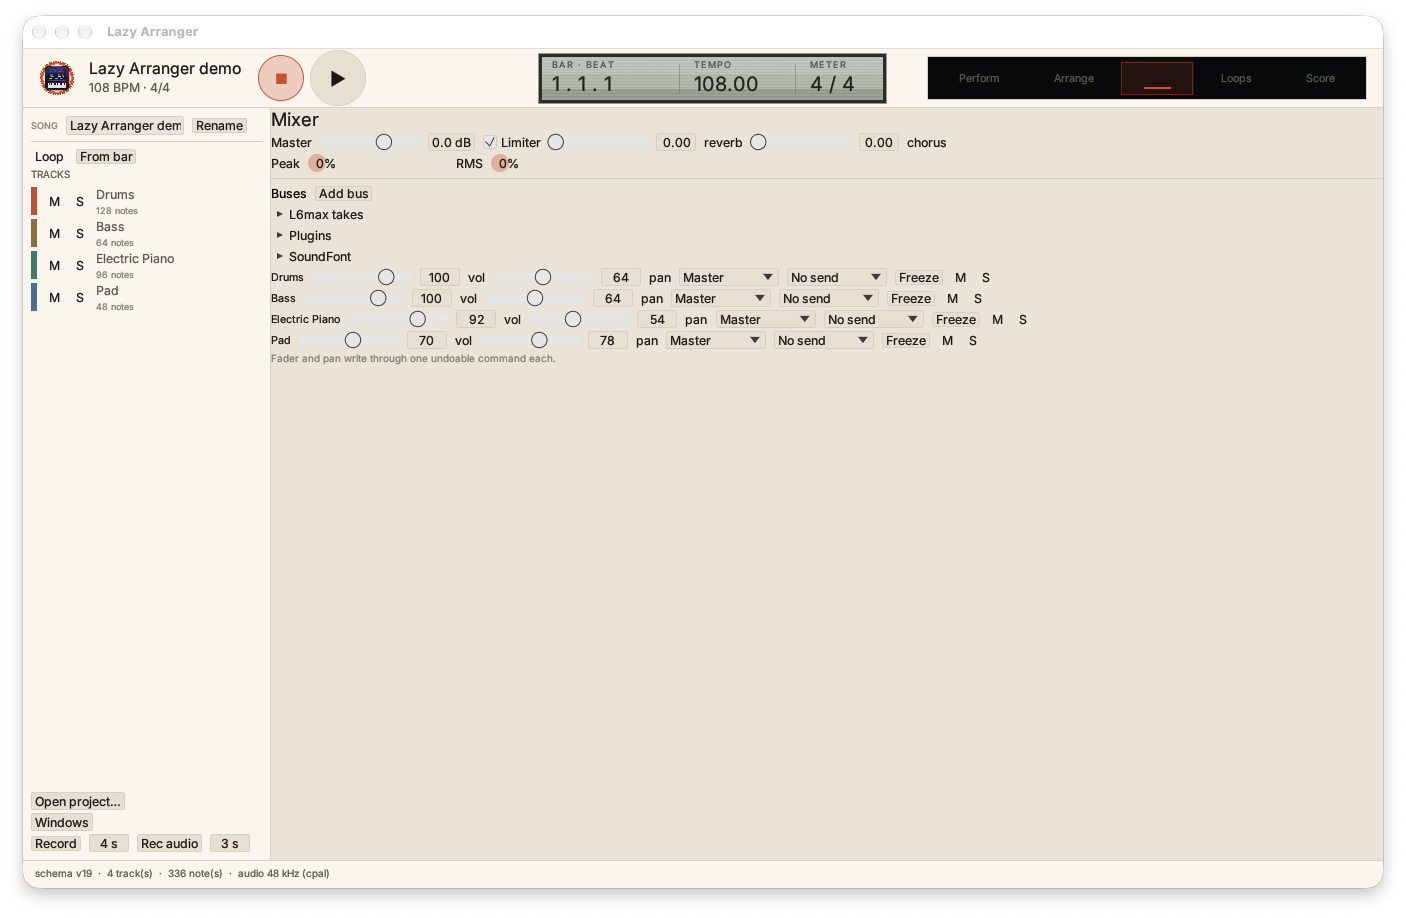
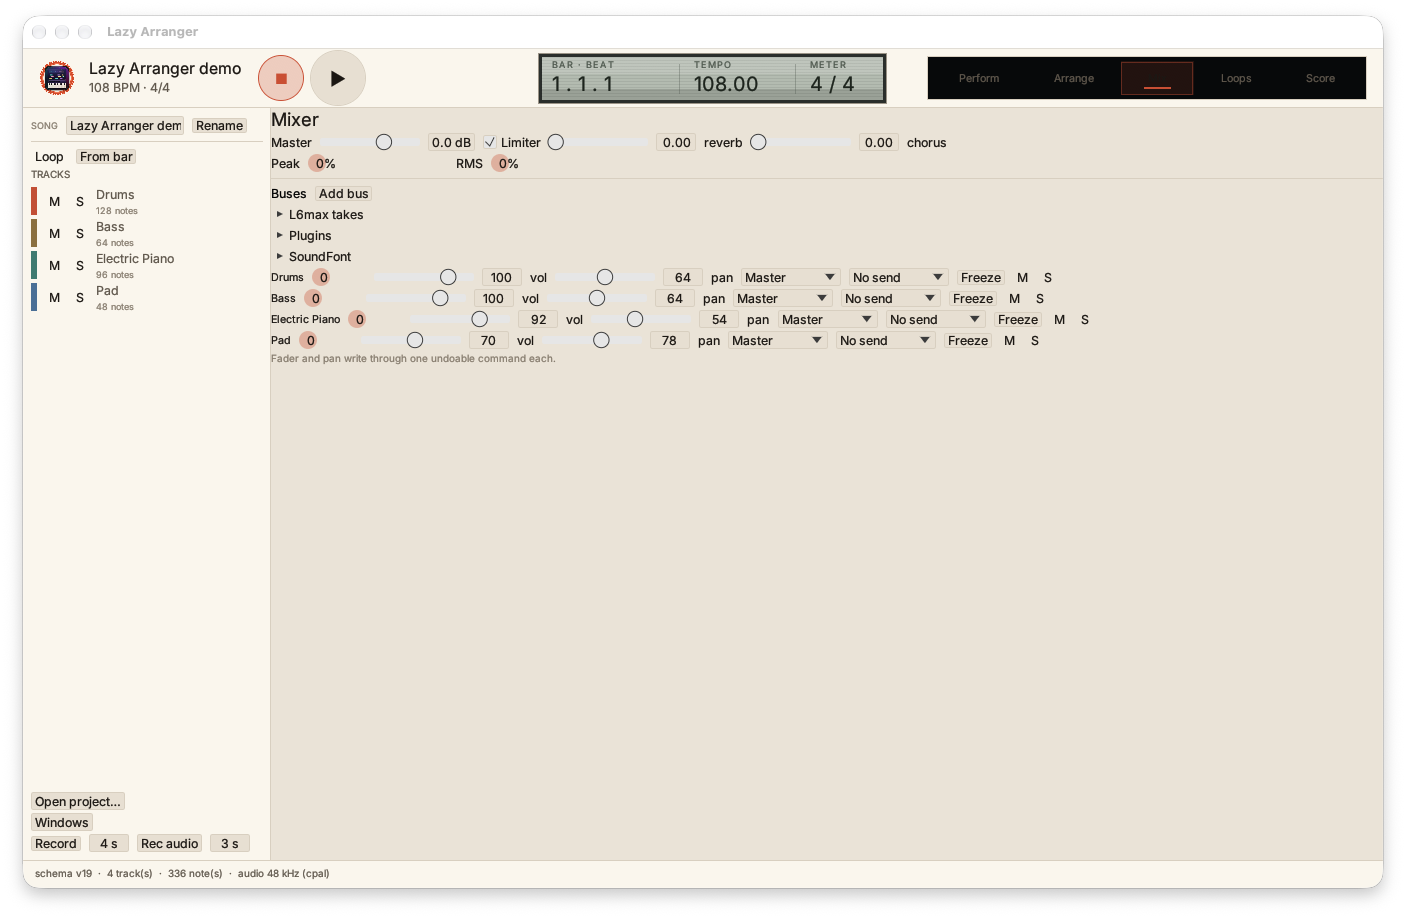
feat(mixer): per-track peak meters
Uses meter_at over offline stems at the playhead, renders stems on playback when
Mix is active or when entering Mix while playing, and shows a peak badge per
track. Adds a window-meter test and refreshes the Mix capture.

653 tests pass; clippy, fmt and rustdoc clean; the shell ran 6 s without a
panic.

diff --git a/apps/desktop/src/app.rs b/apps/desktop/src/app.rs
@@ -303,6 +303,7 @@ pub struct ShellApp {
     print_copies: u32,
     print_pages: String,
     monitor: Option<audio::monitor::Monitor>,
+    stem_levels: Vec<(TrackId, Vec<f32>)>,
     marker_text: String,
     marker_selected: Option<Tick>,
     form_dialog: bool,
@@ -467,6 +468,7 @@ impl ShellApp {
             print_copies: 1,
             print_pages: String::new(),
             monitor: None,
+            stem_levels: Vec::new(),
             marker_text: String::new(),
             marker_selected: None,
             form_dialog: false,
@@ -1787,6 +1789,7 @@ impl ShellApp {
                 self.selected_clip = None;
                 self.selected_clips.clear();
                 self.selected_chord = None;
+                self.stem_levels.clear();
                 self.position = 0;
                 self.song_name_input = self.song().name.clone();
                 self.status = Some(format!("loaded {label}"));
@@ -2872,6 +2875,17 @@ impl ShellApp {
     /// Mixer strips: one per track with a fader, pan and mute/solo.
     fn mixer_panel(&mut self, ui: &mut egui::Ui) {
         ui.heading("Mixer");
+        if self.stem_levels.is_empty()
+            && self
+                .player
+                .as_ref()
+                .is_some_and(audio::player::Player::is_playing)
+        {
+            self.stem_levels = audio::render_stems(self.song(), audio::SAMPLE_RATE)
+                .into_iter()
+                .map(|stem| (stem.track, stem.audio.samples))
+                .collect();
+        }
         ui.horizontal(|ui| {
             ui.label("Master");
             ui.add(
@@ -3253,10 +3267,30 @@ impl ShellApp {
             });
         }
         for (id, name, volume, pan, muted, soloed) in strips {
+            let meter = if self
+                .player
+                .as_ref()
+                .is_some_and(audio::player::Player::is_playing)
+            {
+                let position = self.player.as_ref().map_or(0, |player| player.frame() * 2);
+                self.stem_levels
+                    .iter()
+                    .find(|(track, _)| *track == id)
+                    .map_or_else(audio::master::Meter::default, |(_, samples)| {
+                        audio::master::meter_at(samples, position, audio::SAMPLE_RATE as usize / 20)
+                    })
+            } else {
+                audio::master::Meter::default()
+            };
             ui.horizontal(|ui| {
                 ui.label(
                     egui::RichText::new(if name.is_empty() { "untitled" } else { &name })
                         .size(11.0),
+                );
+                ui.add(
+                    egui::ProgressBar::new(meter.peak.clamp(0.0, 1.0))
+                        .desired_width(54.0)
+                        .text(format!("{:.0}", meter.peak * 100.0)),
                 );
                 let mut level = i32::from(volume);
                 let response = ui.add(
@@ -3951,6 +3985,7 @@ impl ShellApp {
             match audio::player::Player::new(sliced) {
                 Ok(player) => {
                     self.position = start;
+                    self.stem_levels.clear();
                     self.player = Some(player);
                     self.playing = true;
                     if let Some(player) = &self.player {
@@ -3964,9 +3999,18 @@ impl ShellApp {
                 }
             }
         }
+        let stems = if self.view == View::Mix {
+            audio::render_stems(self.song(), audio::SAMPLE_RATE)
+                .into_iter()
+                .map(|stem| (stem.track, stem.audio.samples))
+                .collect()
+        } else {
+            Vec::new()
+        };
         match audio::player::Player::new(audio) {
             Ok(player) => {
                 player.play();
+                self.stem_levels = stems;
                 self.player = Some(player);
                 self.playing = true;
             }

diff --git a/crates/audio/src/master.rs b/crates/audio/src/master.rs
@@ -143,6 +143,29 @@ fn reverb(rendered: &mut RenderedAudio, amount: f32) {
     }
 }
 
+/// Measures a stereo window at `start` sample, for live meters.
+#[must_use]
+pub fn meter_at(samples: &[f32], start: usize, frames: usize) -> Meter {
+    let start = start.min(samples.len());
+    let length = frames
+        .saturating_mul(2)
+        .min(samples.len().saturating_sub(start));
+    if length == 0 {
+        return Meter::default();
+    }
+    let window = &samples[start..start + length];
+    let peak = window
+        .iter()
+        .fold(0.0_f32, |peak, sample| peak.max(sample.abs()));
+    let rms = (window
+        .iter()
+        .map(|sample| f64::from(*sample) * f64::from(*sample))
+        .sum::<f64>()
+        / length as f64)
+        .sqrt() as f32;
+    Meter { peak, rms }
+}
+
 /// Measures a buffer.
 #[must_use]
 pub fn meter(rendered: &RenderedAudio) -> Meter {
@@ -242,6 +265,14 @@ mod tests {
                 .zip(dry.samples.iter())
                 .any(|(left, right)| (left - right).abs() > 1.0e-6)
         );
+    }
+
+    #[test]
+    fn a_window_meter_reports_only_its_slice() {
+        let samples = [0.5, -0.5, 1.0, -1.0, 0.0, 0.0];
+        let meter = meter_at(&samples, 2, 1);
+        assert!((meter.peak - 1.0).abs() < 1.0e-6);
+        assert_eq!(meter_at(&samples, 6, 1), Meter::default());
     }
 
     #[test]

diff --git a/crates/audio/src/player.rs b/crates/audio/src/player.rs
@@ -9,7 +9,7 @@ use std::sync::{Arc, Mutex};
 use cpal::traits::{DeviceTrait, HostTrait, StreamTrait};
 
 use crate::RenderedAudio;
-use crate::master::Meter;
+use crate::master::{Meter, meter_at};
 
 /// Playback position and buffer, shared with the audio callback.
 #[derive(Debug)]
@@ -71,24 +71,7 @@ impl Playback {
     /// Peak/RMS over the next `frames` stereo frames, for a meter.
     #[must_use]
     pub fn meter(&self, frames: usize) -> Meter {
-        let start = self.position.min(self.samples.len());
-        let length = frames
-            .saturating_mul(2)
-            .min(self.samples.len().saturating_sub(start));
-        if length == 0 {
-            return Meter::default();
-        }
-        let window = &self.samples[start..start + length];
-        let peak = window
-            .iter()
-            .fold(0.0_f32, |peak, sample| peak.max(sample.abs()));
-        let rms = (window
-            .iter()
-            .map(|sample| f64::from(*sample) * f64::from(*sample))
-            .sum::<f64>()
-            / length as f64)
-            .sqrt() as f32;
-        Meter { peak, rms }
+        meter_at(&self.samples, self.position, frames)
     }
 
     /// True while samples are being produced.

diff --git a/docs/architecture/contracts.md b/docs/architecture/contracts.md
@@ -23,7 +23,7 @@ section below is a row, so nothing is skipped. Status: **verified**,
 | 14 | Styles | partial | Yamaha open, import, compile on chords, **save container (SFF1/SFF2, real 15-section style rewritten)**. Track program changes now round-trip through the SMF reader/writer and the style writer; Korg, live sections, rules editor UI, style-from-clips, bank select, XG voices and the SInt setup region remain absent. Catalog resolution by number or name (`style-resolve`) matched a real library entry; a PCG scanner now recognises the KORG marker and model name only, with no program or combi decoding |
 | 15 | Style from Audio and Link | partial | Link→monophonic MIDI; no style output, no match scores |
 | 16 | Score view | partial | MusicXML export/import with `<harmony>` chords, drum instrument ids, `<sound dynamics>`, slurs and a round-trip audit. On the demo tracks, chords (16), lyrics (2), marks (2), drums and the pitched detail are preserved (186 = 186 after merging 22 ties). A style-derived project with mixed drum/pitched tracks and overlapping notes now keeps all 1,423 pitched notes (counts and tie merges), but one chord-group note starts at a different tick inside an overlap; `<backup>` was added for overlaps, and MusicXML still cannot express every simultaneous overlap we hold, which is recorded as a limitation plus a toolkit-independent layout engine (pages, systems, measures, positioned notes, CLI report). An egui page canvas renders staff lines, barlines, noteheads, page navigation and zoom from the layout. Key detection, spelling, accidentals, canvas, vector PDF, per-pitch ties and a lyric line (40-bar two-page acceptance test). Dynamics and articulations are marks in schema v11, exchanged as MusicXML directions and drawn by both renderers. Note entry: with Note entry enabled, a click on the score inserts a note at a quarter-quantised tick and the staff pitch through one undoable command. A grand-staff toggle, beams, tuplet brackets, ties, rests in gaps/empty measures, augmentation dots (notes and rests) and articulation glyphs now draw on canvas and PDF; phrase slurs (schema v18) draw as curves, are exposed by `get_slurs`/`set_slurs` and round-trip as MusicXML `<slur>` notations; a drum track gets a one-line percussion staff with x noteheads on canvas and PDF; lyrics shift right when crowded; chord names are drawn above the staff on canvas and PDF, common major/minor/seventh chords get guitar frames (slash chords or unlisted qualities get none); the Score view has a path field, Save PDF and a Print dialog with printer, copies and page ranges via `lp`; chord names and guitar frames draw on canvas and PDF with a top reserve, the song title draws inside the page margin, one lyric per chord tick, PDF text uses the dark fill; four 4/4 measures fit a system and the song meter draws at each system start, measure numbers draw above the staff, `docs/audit/score-page.png` shows the balanced layout, and a headless test checks canvas text; and a headless egui test verifies the canvas title, chord name and measure number shapes; dense rhythms widen their measures and crowded accidentals shift left; Shift-drag resizes a note's duration (quarter-quantised); no vertical rest/dot collision avoidance; printing uses `lp`, not an OS print panel |
-| 17 | Mixer and buses | partial | Tracks carry fader, pan, mute/solo and automation; buses (schema v13) have volume and pan, tracks route to a bus and can send a copy at a level, and the render sums bus buffers after the tracks. Mix view shows bus rows with volume/pan/remove and an Add bus action plus a per-track routing picker (`docs/audit/mix.png`). Mix rows add a send-bus picker and send-level slider over the same routing command; Loops slots have a right-click menu for clear, one-bar length and copy to playhead. Master gain and a soft limiter apply to playback and `export-audio` (`--gain-db`, `--no-limiter`), and the export prints peak/RMS; master reverb and chorus wet amounts (feedback-delay reverb and modulated-delay chorus, applied after gain before the limiter) are settable in the Mixer and Settings and used by playback/`export-audio --reverb/--chorus`; master peak/RMS bars draw while playing (no per-track meters or other master effects) |
+| 17 | Mixer and buses | partial | Tracks carry fader, pan, mute/solo and automation; buses (schema v13) have volume and pan, tracks route to a bus and can send a copy at a level, and the render sums bus buffers after the tracks. Mix view shows bus rows with volume/pan/remove and an Add bus action plus a per-track routing picker (`docs/audit/mix.png`). Mix rows add a send-bus picker and send-level slider over the same routing command; Loops slots have a right-click menu for clear, one-bar length and copy to playhead. Master gain and a soft limiter apply to playback and `export-audio` (`--gain-db`, `--no-limiter`), and the export prints peak/RMS; master reverb and chorus wet amounts (feedback-delay reverb and modulated-delay chorus, applied after gain before the limiter) are settable in the Mixer and Settings and used by playback/`export-audio --reverb/--chorus`; master peak/RMS bars and per-track peak badges draw while playing (track levels come from offline stems; other master effects absent) |
 | 18 | Automation | partial | Volume and pan lanes with linear interpolation and held ends, applied per note in the render, edited through one undoable command. Arrange shows a volume lane for the selected track; clicking adds a point, clicking a point removes it, and each edit is one command. the automation target picker covers Volume, Pan, Send and Brightness; no plugin-parameter lanes or MIDI-port automation |
 | 19 | VST3/AU plugins | partial | Project model only: `Track.plugins` slots (id, name, format VST3/AU, path, bypass, opaque state) in schema v15, one undoable `SetPlugins` command and duplicate/no-name validation. A scanner finds installed VST3/AU bundles in the standard folders (21 found on this machine, e.g. R0Verb and sforzando) through `plugin-scan` and a `plugin_scan` tool; the Mixer's Plugins panel scans, adds a found bundle to the selected track's slots, and toggles bypass or removes slots. No plugin hosting, load validation, audio processing or editor windows; the render ignores slots |
 | 20 | SF2/SF3 SoundFont player, metronome | partial | Built-in synth now has piano, bass, organ, strings, pad and noise drums chosen from channel, program and name, with per-family attack and decay. An SF2 reader parses RIFF, preset/instrument zones and sample headers; `sf2-info` lists a real bank (137 presets, 239 instruments, 125 samples), `sf2-render` plays one note, and a track can carry a SoundFont preset (schema v16) that render honours in playback and export (`sf2-use`; demo track RMS 0.252 versus 0.116 built-in). The Mixer has a SoundFont panel (path, bank, program, use/load/clear) that validates the bank and applies one command. Sample playback applies the volume envelope (six phases from timecents/centibels), a biquad lowpass from the cutoff/Q generators and linked stereo pairs as two channels. No modulators or SF3; a missing file falls back to the built-in timbre; a metronome click mixes into playback and export |
@@ -50,7 +50,7 @@ section below is a row, so nothing is skipped. Status: **verified**,
 ## Scorecard
 
 39 sections at round 216: 0 fully verified beyond their Rust subset, 39 partial,
-0 missing; 652 tests pass. No section is missing at row level; partials need hardware,
+0 missing; 653 tests pass. No section is missing at row level; partials need hardware,
 proprietary formats, plugin hosting or a model. See
 `docs/audit/cpp-features-crosscheck.md` for row evidence.
 
@@ -1003,8 +1003,9 @@ reverb tail, chorus modulation and the zero-effect path.
 
 `Playback::meter(frames)` computes peak and RMS over a short window at the
 playhead; `Player::meter` samples about 50 ms. The Mixer draws master Peak/RMS
-bars only while playing. A playback unit test checks the window and the
-end-of-buffer zero case; per-track meters are not implemented.
+bars and per-track peak badges while playing; track levels use offline stems
+rendered when playback starts in Mix or Mix is entered while playing. A window
+meter unit test checks slices and the end-of-buffer zero case.
 
 ### Track programs in MIDI and styles
 

diff --git a/docs/audit/cpp-features-crosscheck.md b/docs/audit/cpp-features-crosscheck.md
@@ -23,7 +23,7 @@ section below is a row, so nothing is skipped. Status: **verified**,
 | 14 | Styles | partial | Yamaha open, import, compile on chords, **save container (SFF1/SFF2, real 15-section style rewritten)**. Track program changes now round-trip through the SMF reader/writer and the style writer; Korg, live sections, rules editor UI, style-from-clips, bank select, XG voices and the SInt setup region remain absent. Catalog resolution by number or name (`style-resolve`) matched a real library entry; a PCG scanner now recognises the KORG marker and model name only, with no program or combi decoding |
 | 15 | Style from Audio and Link | partial | Link→monophonic MIDI; no style output, no match scores |
 | 16 | Score view | partial | MusicXML export/import with `<harmony>` chords, drum instrument ids, `<sound dynamics>`, slurs and a round-trip audit. On the demo tracks, chords (16), lyrics (2), marks (2), drums and the pitched detail are preserved (186 = 186 after merging 22 ties). A style-derived project with mixed drum/pitched tracks and overlapping notes now keeps all 1,423 pitched notes (counts and tie merges), but one chord-group note starts at a different tick inside an overlap; `<backup>` was added for overlaps, and MusicXML still cannot express every simultaneous overlap we hold, which is recorded as a limitation plus a toolkit-independent layout engine (pages, systems, measures, positioned notes, CLI report). An egui page canvas renders staff lines, barlines, noteheads, page navigation and zoom from the layout. Key detection, spelling, accidentals, canvas, vector PDF, per-pitch ties and a lyric line (40-bar two-page acceptance test). Dynamics and articulations are marks in schema v11, exchanged as MusicXML directions and drawn by both renderers. Note entry: with Note entry enabled, a click on the score inserts a note at a quarter-quantised tick and the staff pitch through one undoable command. A grand-staff toggle, beams, tuplet brackets, ties, rests in gaps/empty measures, augmentation dots (notes and rests) and articulation glyphs now draw on canvas and PDF; phrase slurs (schema v18) draw as curves, are exposed by `get_slurs`/`set_slurs` and round-trip as MusicXML `<slur>` notations; a drum track gets a one-line percussion staff with x noteheads on canvas and PDF; lyrics shift right when crowded; chord names are drawn above the staff on canvas and PDF, common major/minor/seventh chords get guitar frames (slash chords or unlisted qualities get none); the Score view has a path field, Save PDF and a Print dialog with printer, copies and page ranges via `lp`; chord names and guitar frames draw on canvas and PDF with a top reserve, the song title draws inside the page margin, one lyric per chord tick, PDF text uses the dark fill; four 4/4 measures fit a system and the song meter draws at each system start, measure numbers draw above the staff, `docs/audit/score-page.png` shows the balanced layout, and a headless test checks canvas text; and a headless egui test verifies the canvas title, chord name and measure number shapes; dense rhythms widen their measures and crowded accidentals shift left; Shift-drag resizes a note's duration (quarter-quantised); no vertical rest/dot collision avoidance; printing uses `lp`, not an OS print panel |
-| 17 | Mixer and buses | partial | Tracks carry fader, pan, mute/solo and automation; buses (schema v13) have volume and pan, tracks route to a bus and can send a copy at a level, and the render sums bus buffers after the tracks. Mix view shows bus rows with volume/pan/remove and an Add bus action plus a per-track routing picker (`docs/audit/mix.png`). Mix rows add a send-bus picker and send-level slider over the same routing command; Loops slots have a right-click menu for clear, one-bar length and copy to playhead. Master gain and a soft limiter apply to playback and `export-audio` (`--gain-db`, `--no-limiter`), and the export prints peak/RMS; master reverb and chorus wet amounts (feedback-delay reverb and modulated-delay chorus, applied after gain before the limiter) are settable in the Mixer and Settings and used by playback/`export-audio --reverb/--chorus`; master peak/RMS bars draw while playing (no per-track meters or other master effects) |
+| 17 | Mixer and buses | partial | Tracks carry fader, pan, mute/solo and automation; buses (schema v13) have volume and pan, tracks route to a bus and can send a copy at a level, and the render sums bus buffers after the tracks. Mix view shows bus rows with volume/pan/remove and an Add bus action plus a per-track routing picker (`docs/audit/mix.png`). Mix rows add a send-bus picker and send-level slider over the same routing command; Loops slots have a right-click menu for clear, one-bar length and copy to playhead. Master gain and a soft limiter apply to playback and `export-audio` (`--gain-db`, `--no-limiter`), and the export prints peak/RMS; master reverb and chorus wet amounts (feedback-delay reverb and modulated-delay chorus, applied after gain before the limiter) are settable in the Mixer and Settings and used by playback/`export-audio --reverb/--chorus`; master peak/RMS bars and per-track peak badges draw while playing (track levels come from offline stems; other master effects absent) |
 | 18 | Automation | partial | Volume and pan lanes with linear interpolation and held ends, applied per note in the render, edited through one undoable command. Arrange shows a volume lane for the selected track; clicking adds a point, clicking a point removes it, and each edit is one command. the automation target picker covers Volume, Pan, Send and Brightness; no plugin-parameter lanes or MIDI-port automation |
 | 19 | VST3/AU plugins | partial | Project model only: `Track.plugins` slots (id, name, format VST3/AU, path, bypass, opaque state) in schema v15, one undoable `SetPlugins` command and duplicate/no-name validation. A scanner finds installed VST3/AU bundles in the standard folders (21 found on this machine, e.g. R0Verb and sforzando) through `plugin-scan` and a `plugin_scan` tool; the Mixer's Plugins panel scans, adds a found bundle to the selected track's slots, and toggles bypass or removes slots. No plugin hosting, load validation, audio processing or editor windows; the render ignores slots |
 | 20 | SF2/SF3 SoundFont player, metronome | partial | Built-in synth now has piano, bass, organ, strings, pad and noise drums chosen from channel, program and name, with per-family attack and decay. An SF2 reader parses RIFF, preset/instrument zones and sample headers; `sf2-info` lists a real bank (137 presets, 239 instruments, 125 samples), `sf2-render` plays one note, and a track can carry a SoundFont preset (schema v16) that render honours in playback and export (`sf2-use`; demo track RMS 0.252 versus 0.116 built-in). The Mixer has a SoundFont panel (path, bank, program, use/load/clear) that validates the bank and applies one command. Sample playback applies the volume envelope (six phases from timecents/centibels), a biquad lowpass from the cutoff/Q generators and linked stereo pairs as two channels. No modulators or SF3; a missing file falls back to the built-in timbre; a metronome click mixes into playback and export |

diff --git a/docs/audit/parity.md b/docs/audit/parity.md
@@ -10,7 +10,7 @@ This table grew over many rounds and some middle rows describe earlier states.
 The reconciled view is
 [`cpp-features-crosscheck.md`](cpp-features-crosscheck.md): 39 sections, **39
 partial and 0 missing at row level**, no section fully verified. `cargo test
---workspace` passes **652 tests**; fmt, clippy with `-D warnings` and rustdoc
+--workspace` passes **653 tests**; fmt, clippy with `-D warnings` and rustdoc
 pass.
 
 Verified by tests or offline evidence: project schema v19 with migrations,
@@ -20,7 +20,7 @@ parsing, roman numerals, reharmonisation and find-chords; doctor/fit with A/B,
 groove files, forms and transitions; score layout with ties, beams, tuplets,
 rests, lyrics (spaced), slurs, percussion, chord symbols, guitar frames,
 accidental spacing, canvas and PDF/MusicXML round trip; audio render with six
-timbres and SF2, references with fades/stretch/waveform zoom, mixing, buses, master reverb/chorus/peak-RMS meter,
+timbres and SF2, references with fades/stretch/waveform zoom, mixing, buses, master reverb/chorus/peak-RMS/per-track meters,
 automation, stems/freeze, float WAV and input capture (capture unverified);
 MIDI map with learn and a Launchkey pad preset, style catalog, theory helpers,
 settings with editable shortcuts, six languages with a translated Help window, named demos and the

diff --git a/README.md b/README.md
@@ -29,7 +29,7 @@ blockers are listed at the end.
 | Score engraving: ties, beams, tuplets, rests, dots, slurs, percussion, lyrics, chord names, frames, spacing, drag/resize | verified tests; PDF/canvas checks | `crates/score`, `apps/desktop` |
 | Vector score PDF and print via `lp` (printer picker) | PDF verified; print unverified | `score::pdf`, Score view |
 | Offline audio render, SF2, cpal playback | rendered tests; audible cpal unverified | `crates/audio` |
-| Mixer: buses, sends, pan, automation, master gain/limiter/reverb/chorus, peak/RMS meter | verified render tests | `audio`, Mix view |
+| Mixer: buses, sends, pan, automation, master gain/limiter/reverb/chorus, peak/RMS and per-track meters | verified render tests | `audio`, Mix view |
 | Stems, freeze, 16/24/32-bit float WAV, gain/normalize | verified | `audio`, CLI |
 | Audio references: trim, fades, resample-to-fit, waveform zoom, normalize | verified helpers | `audio`, Editor |
 | Audio analysis: monophonic pitch, chroma chords, link-to-MIDI | monophonic verified | `audio::analysis`, `link` |

diff --git a/docs/audit/ci-windows-failures.md b/docs/audit/ci-windows-failures.md
@@ -58,3 +58,6 @@ A third run, [45160644152](https://github.com/nhth-mibu/Lazy-Arranger-v2/actions
 on `a13882e` (cpal input monitoring), passed all three jobs: windows-latest
 2m17s, macos-latest 1m44s, ubuntu-latest 2m53s. The duplex cpal module builds
 and tests on every platform; no audio device was exercised.
+
+Run [45162107856](https://github.com/nhth-mibu/Lazy-Arranger-v2/actions/runs/45162107856)
+on `e999804` (master meter) passed ubuntu 1m27s, windows 2m46s, macos 1m39s.
